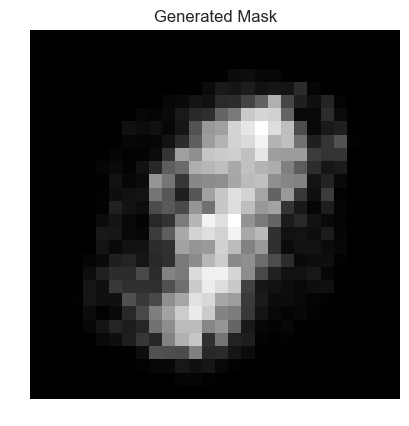
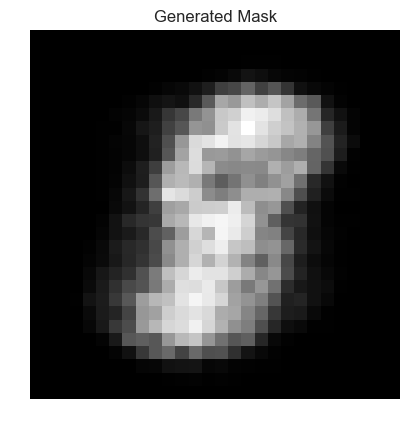
s

Changed region(s): [[0.2347, 0.1831, 0.8509, 0.8545]]

diff --git a/NeuralNetwork/eigen_auto/d.py b/NeuralNetwork/eigen_auto/d.py
@@ -25,8 +25,8 @@ ia.seed(6278)
 def tf_elu(x): return tf.nn.elu(x)
 def d_tf_elu(x): return tf.cast(tf.greater(x,0),tf.float32)  + (tf_elu(tf.cast(tf.less_equal(x,0),tf.float32) * x) + 1.0)
 
-def tf_tanh(x): return 2 * tf.nn.tanh(x)
-def d_tf_tanh(x): return 2 * (1 - tf_tanh(x) ** 2)
+def tf_tanh(x): return tf.nn.tanh(x)
+def d_tf_tanh(x): return 1 - tf_tanh(x) ** 2
 
 def tf_sigmoid(x): return tf.nn.sigmoid(x) 
 def d_tf_sigmoid(x): return tf_sigmoid(x) * (1.0-tf_sigmoid(x))
@@ -246,24 +246,24 @@ test_batch = test_batch/255.0
 train_batch = train_batch[:10000]
 train_label = train_label[:10000]
 
-# hyper parameter 10000
+# hyper parameter 
 num_epoch = 21
 batch_size = 10
 print_size = 2
 
-learning_rate = 0.00008
+learning_rate = 0.0001
 learnind_rate_decay = 0.0
 beta1,beta2,adam_e = 0.9,0.999,1e-8
 
 # define class here
-el1 = CNN(3,1,256)
-el2 = CNN(3,256,512)
+el1 = CNN(3,1,512)
+el2 = CNN(3,512,512)
 el3 = FNN(7*7*512,3,tf_tanh,d_tf_tanh)
 
 dl1 = FNN(3,7*7*512,tf_tanh,d_tf_tanh)
-dl2 = CNN_Trans(3,256,512)
-dl3 = CNN_Trans(3,128,256)
-final_cnn = CNN(3,128,1,tf_sigmoid,d_tf_sigmoid)
+dl2 = CNN_Trans(3,512,512)
+dl3 = CNN_Trans(3,256,512)
+final_cnn = CNN(3,256,1,tf_sigmoid,d_tf_sigmoid)
 
 # graph
 x = tf.placeholder(shape=[None,28,28,1],dtype=tf.float32,name="input")
@@ -279,7 +279,7 @@ elayer3 = el3.feedforward(elayer3_flatten)
 # co varience matrix and eign values
 mean_data = tf.reduce_mean(elayer3,0)
 center_matrix = elayer3 - mean_data
-covarience_matrix = tf.matmul(tf.transpose(center_matrix),center_matrix)
+covarience_matrix = tf.matmul(tf.transpose(center_matrix),center_matrix) / batch_size   
 e_value,e_vector = tf.linalg.eigh(covarience_matrix)
 d_layer_input = tf.matmul(elayer3,e_vector)
 
@@ -293,10 +293,9 @@ final_output = final_cnn.feedforward(dlayer3)
 # calculate the loss
 final_output_vec = tf.reshape(final_output,[batch_size,-1])
 final_x = tf.reshape(x,[batch_size,-1])
-cost = -tf.reduce_sum(final_x * tf.log(1e-10 + final_output_vec)+ (1-final_x) * tf.log(1e-10 + 1 - final_output_vec))
-auto_train = tf.train.AdamOptimizer(learning_rate=learning_rate).minimize(cost)
-
-sys.exit()
+cost1 = tf.reduce_mean(tf.square(final_output-x))
+cost2 = -tf.reduce_sum(final_x * tf.log(1e-10 + final_output_vec)+ (1-final_x) * tf.log(1e-10 + 1 - final_output_vec))
+auto_train = tf.train.AdamOptimizer(learning_rate=learning_rate).minimize(cost1 + cost2)
 
 # sess
 with tf.Session() as sess:
@@ -317,9 +316,9 @@ with tf.Session() as sess:
 
         for batch_size_index in range(0,len(train_batch),batch_size):
             current_batch = train_batch[batch_size_index:batch_size_index+batch_size]
-            sess_result = sess.run([cost,grad_update],feed_dict={x:current_batch})
-            print("Current Iter : ",iter ," current batch: ",batch_size_index, ' Current cost: ', sess_result[0],end='\r')
-            train_cota = train_cota + sess_result[0]
+            sess_result = sess.run([cost1,cost2,auto_train],feed_dict={x:current_batch})
+            print("Current Iter : ",iter ," current batch: ",batch_size_index, ' Current cost: ', sess_result[0]+sess_result[1],end='\r')
+            train_cota = train_cota + sess_result[0] + sess_result[1]
 
         if iter % print_size==0:
             print("\n--------------")
@@ -343,7 +342,7 @@ with tf.Session() as sess:
             plt.imshow(np.squeeze(sess_results).astype(np.float32),cmap='gray')
             plt.axis('off')
             plt.title('Generated Mask')
-            plt.savefig('train_change/'+str(iter)+"c_Generated_Mask.png",bbox_inches='tight')
+            plt.savefig('train_change/'+str(iter)+"b_Reconstructed_Image.png",bbox_inches='tight')
             plt.close('all')
 
         train_cot.append(train_cota/(len(train_batch)/(batch_size)))
@@ -361,7 +360,7 @@ with tf.Session() as sess:
     plt.savefig("viz/Case Train.png")
     plt.close('all')
 
-    # generate the 3D plot figure
+    # after all of the training generate the 3D plot figure
     test_batch = train_batch[:1000]
     test_label = train_label[:1000]
 
@@ -395,4 +394,38 @@ with tf.Session() as sess:
     ax.legend()
     ax.grid(True)
     plt.show()
+    plt.close('all')
+    
+    # next show the transformed after co varience
+    test_latent = sess.run(d_layer_input,feed_dict={x:test_batch[:batch_size,:,:,:]})
+    for iii in range(batch_size,len(test_batch),batch_size):
+        temp = sess.run(d_layer_input,feed_dict={x:test_batch[iii:batch_size+iii,:,:,:]})
+        test_latent = np.vstack((test_latent,temp))
+
+    fig = plt.figure()
+    ax = fig.add_subplot(111, projection='3d')
+
+    color_dict = {
+        0:'red',
+        1:'blue',
+        2:'green',
+        3:'yellow',
+        4:'purple',
+        5:'grey',
+        6:'black',
+        7:'violet',
+        8:'silver',
+        9:'cyan',
+    }
+
+    color_mapping = [color_dict[x] for x in np.argmax(test_label,1) ]
+    ax.scatter(test_latent[:,0], test_latent[:,1],test_latent[:,2],c=color_mapping,label=str(color_dict))
+    ax.set_xlabel('X Label')
+    ax.set_ylabel('Y Label')
+    ax.set_zlabel('Z Label')
+    ax.legend()
+    ax.grid(True)
+    plt.show()
+
+
 # -- end code --

diff --git a/NeuralNetwork/eigen_auto/a.py b/NeuralNetwork/eigen_auto/a.py
@@ -248,7 +248,7 @@ train_label = train_label[:10000]
 
 # hyper parameter 
 num_epoch = 21
-batch_size = 10
+batch_size = 20
 print_size = 2
 
 learning_rate = 0.0001
@@ -312,7 +312,7 @@ with tf.Session() as sess:
     # start the training
     for iter in range(num_epoch):
 
-        train_batch,train_label = shuffle(train_batch,train_label)
+        # train_batch,train_label = shuffle(train_batch,train_label)
 
         for batch_size_index in range(0,len(train_batch),batch_size):
             current_batch = train_batch[batch_size_index:batch_size_index+batch_size]
